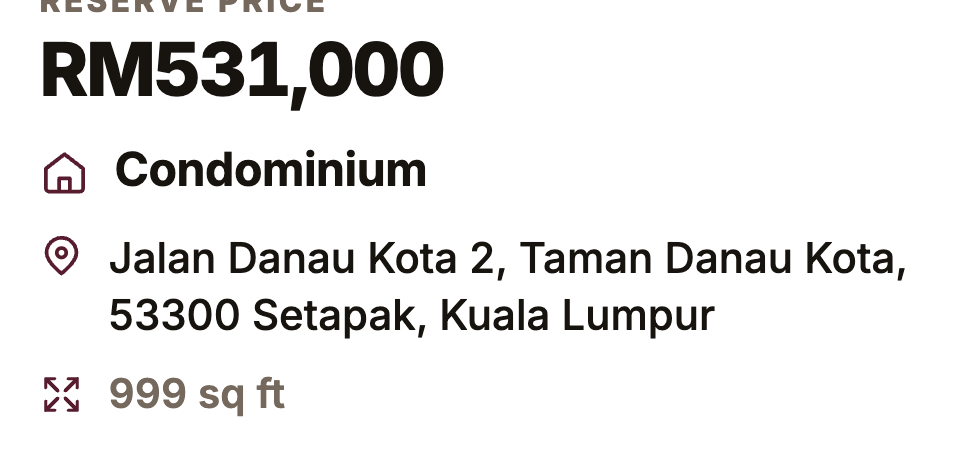
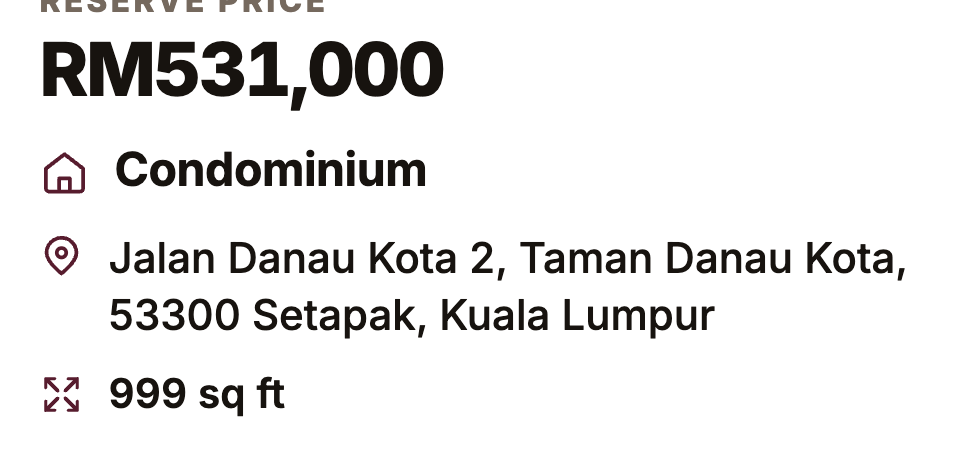
Card: sq ft row to ink, matching the address above it
Bryan. The two supporting facts under the type now read as one block instead
of the size fading out below the address. Rank still comes from scale, not
from colour: 14px address over 13.5px size, both ink.

Verified computed: title 15.5px, address 14px, size 13.5px, price 24.6px —
all rgb(23,19,15). Zero overflow at 1440, build green.

Changed region(s): [[0.0938, 0.84, 0.3125, 0.9333]]

diff --git a/src/styles/tender-listings.css b/src/styles/tender-listings.css
@@ -750,7 +750,10 @@
   }
 
   /* 4 — the area a buyer is buying (floor for strata, land for landed). */
-  .prop-card .pc-size { display: flex; align-items: center; gap: 8px; margin: 7px 0 0; min-width: 0; color: var(--muted); font-size: 13.5px; font-weight: 600; line-height: 1.4; font-variant-numeric: tabular-nums; }
+  /* INK, matching the address above it (Bryan, 6 Aug) — the two supporting facts read
+     as one block now. It stays a step under the address on SIZE (13.5 vs 14px), so
+     rank still comes from scale rather than from fading the colour out. */
+  .prop-card .pc-size { display: flex; align-items: center; gap: 8px; margin: 7px 0 0; min-width: 0; color: var(--ink); font-size: 13.5px; font-weight: 600; line-height: 1.4; font-variant-numeric: tabular-nums; }
   .prop-card .pc-size svg { flex: none; width: 15px; height: 15px; color: var(--burgundy); }
 
   /* 5 — the window. Two parallel cells, label / date / qualifier, vertical
